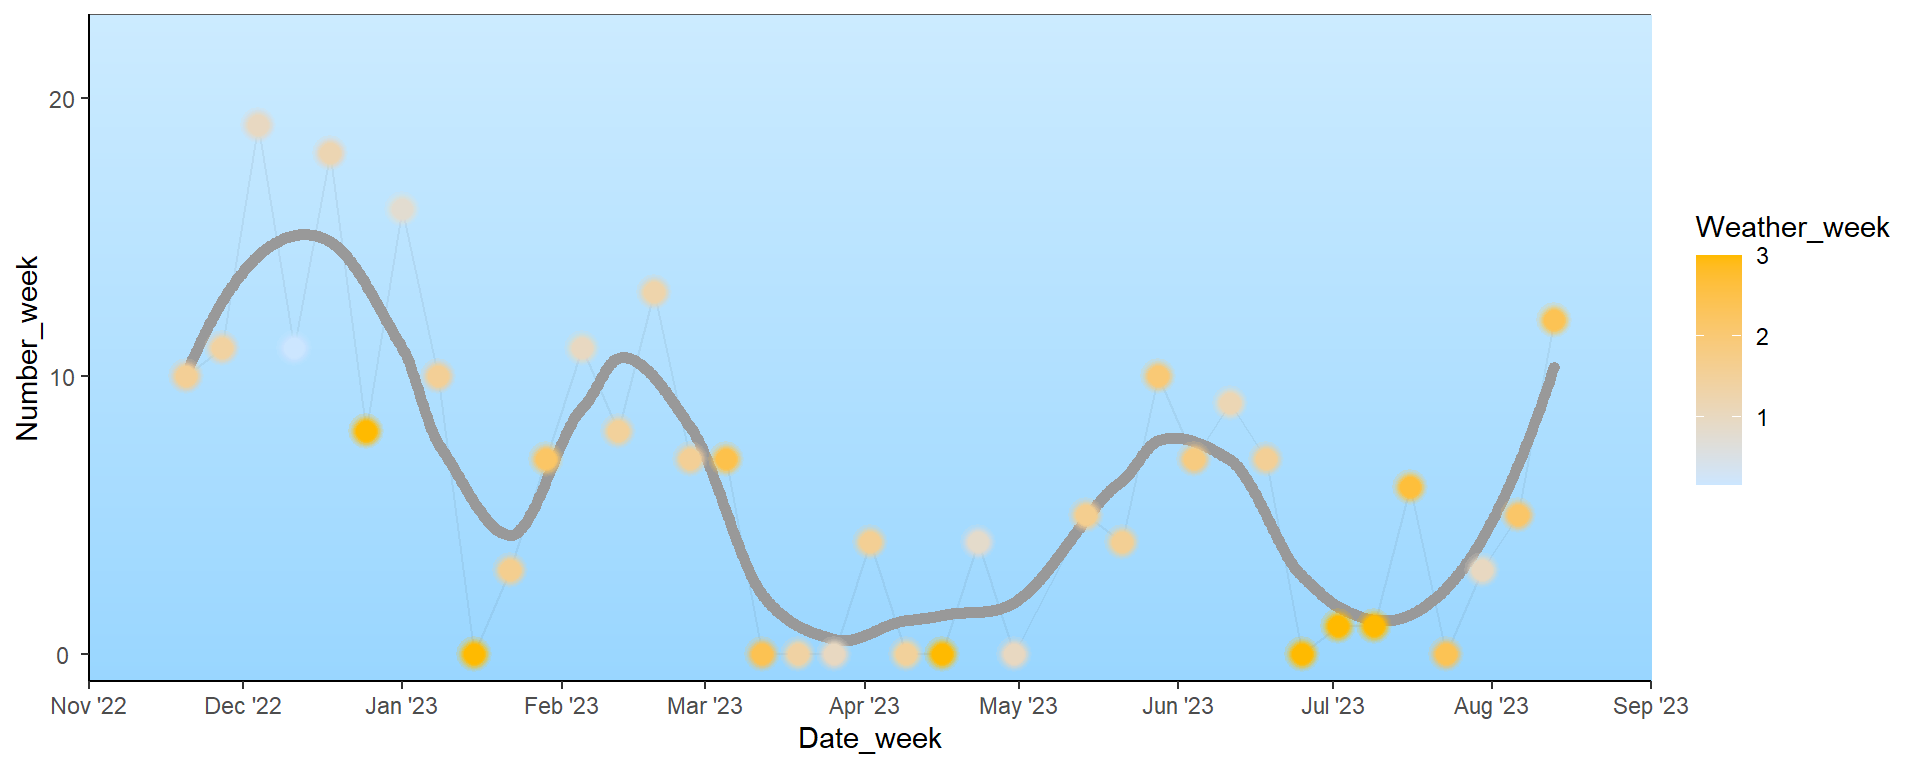
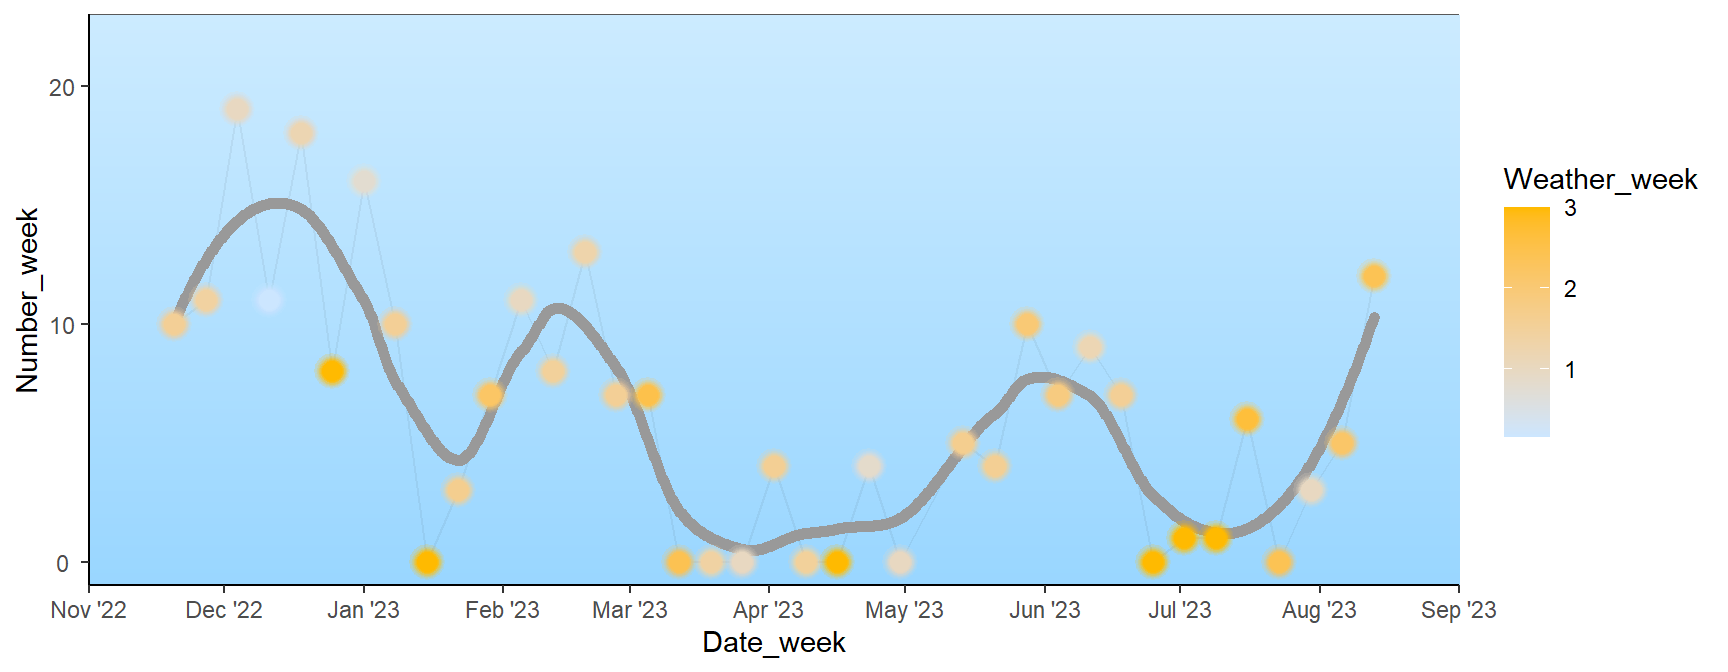
u

diff --git a/_posts/2024-02-21-post-33-a-timely-plotvisualizing-time-series-in-ggplots/post-33-a-timely-plotvisualizing-time-series-in-ggplots.html b/_posts/2024-02-21-post-33-a-timely-plotvisualizing-time-series-in-ggplots/post-33-a-timely-plotvisualizing-time-series-in-ggplots.html
@@ -118,7 +118,7 @@ code span.wa { color: #5e5e5e; font-style: italic; } /* Warning */
   <!--/radix_placeholder_rmarkdown_metadata-->
   
   <script type="text/json" id="radix-resource-manifest">
-  {"type":"character","attributes":{},"value":["Black_Kite_Records.xlsx","post-33-a-timely-plotvisualizing-time-series-in-ggplots_files/anchor-4.2.2/anchor.min.js","post-33-a-timely-plotvisualizing-time-series-in-ggplots_files/bowser-1.9.3/bowser.min.js","post-33-a-timely-plotvisualizing-time-series-in-ggplots_files/distill-2.2.21/template.v2.js","post-33-a-timely-plotvisualizing-time-series-in-ggplots_files/figure-html5/unnamed-chunk-2-1.png","post-33-a-timely-plotvisualizing-time-series-in-ggplots_files/figure-html5/unnamed-chunk-5-1.png","post-33-a-timely-plotvisualizing-time-series-in-ggplots_files/header-attrs-2.25/header-attrs.js","post-33-a-timely-plotvisualizing-time-series-in-ggplots_files/jquery-3.6.0/jquery-3.6.0.js","post-33-a-timely-plotvisualizing-time-series-in-ggplots_files/jquery-3.6.0/jquery-3.6.0.min.js","post-33-a-timely-plotvisualizing-time-series-in-ggplots_files/jquery-3.6.0/jquery-3.6.0.min.map","post-33-a-timely-plotvisualizing-time-series-in-ggplots_files/popper-2.6.0/popper.min.js","post-33-a-timely-plotvisualizing-time-series-in-ggplots_files/tippy-6.2.7/tippy-bundle.umd.min.js","post-33-a-timely-plotvisualizing-time-series-in-ggplots_files/tippy-6.2.7/tippy-light-border.css","post-33-a-timely-plotvisualizing-time-series-in-ggplots_files/tippy-6.2.7/tippy.css","post-33-a-timely-plotvisualizing-time-series-in-ggplots_files/tippy-6.2.7/tippy.umd.min.js","post-33-a-timely-plotvisualizing-time-series-in-ggplots_files/webcomponents-2.0.0/webcomponents.js"]}
+  {"type":"character","attributes":{},"value":["Black_Kite.png","Black_Kite_Records.xlsx","post-33-a-timely-plotvisualizing-time-series-in-ggplots_files/anchor-4.2.2/anchor.min.js","post-33-a-timely-plotvisualizing-time-series-in-ggplots_files/bowser-1.9.3/bowser.min.js","post-33-a-timely-plotvisualizing-time-series-in-ggplots_files/distill-2.2.21/template.v2.js","post-33-a-timely-plotvisualizing-time-series-in-ggplots_files/figure-html5/unnamed-chunk-2-1.png","post-33-a-timely-plotvisualizing-time-series-in-ggplots_files/figure-html5/unnamed-chunk-5-1.png","post-33-a-timely-plotvisualizing-time-series-in-ggplots_files/figure-html5/unnamed-chunk-6-1.png","post-33-a-timely-plotvisualizing-time-series-in-ggplots_files/header-attrs-2.25/header-attrs.js","post-33-a-timely-plotvisualizing-time-series-in-ggplots_files/jquery-3.6.0/jquery-3.6.0.js","post-33-a-timely-plotvisualizing-time-series-in-ggplots_files/jquery-3.6.0/jquery-3.6.0.min.js","post-33-a-timely-plotvisualizing-time-series-in-ggplots_files/jquery-3.6.0/jquery-3.6.0.min.map","post-33-a-timely-plotvisualizing-time-series-in-ggplots_files/popper-2.6.0/popper.min.js","post-33-a-timely-plotvisualizing-time-series-in-ggplots_files/tippy-6.2.7/tippy-bundle.umd.min.js","post-33-a-timely-plotvisualizing-time-series-in-ggplots_files/tippy-6.2.7/tippy-light-border.css","post-33-a-timely-plotvisualizing-time-series-in-ggplots_files/tippy-6.2.7/tippy.css","post-33-a-timely-plotvisualizing-time-series-in-ggplots_files/tippy-6.2.7/tippy.umd.min.js","post-33-a-timely-plotvisualizing-time-series-in-ggplots_files/webcomponents-2.0.0/webcomponents.js"]}
   </script>
   <!--radix_placeholder_navigation_in_header-->
   <!--/radix_placeholder_navigation_in_header-->
@@ -1795,7 +1795,67 @@ div.l-body img {
 <p><img src="post-33-a-timely-plotvisualizing-time-series-in-ggplots_files/figure-html5/unnamed-chunk-5-1.png" width="85%" style="display: block; margin: auto;" /></p>
 </div>
 <h3 id="polish-the-chart">(4) Polish the chart</h3>
-<p>Interpretation</p>
+<p>Let’s finish up by polishing the chart:</p>
+<ul>
+<li><p>I added a title and an image of a black kite via the HTML syntax using the function <code>geom_richtext()</code> from the package <a href="https://wilkelab.org/ggtext/"><code>ggtext</code></a>.</p></li>
+<li><p>I downloaded the font “Quintessential” from Google Fonts and used it for the numbers and text in the chart using the functions <code>font_add_google()</code> and <code>showtext_auto()</code> from the package <a href="https://cran.rstudio.com/web/packages/showtext/vignettes/introduction.html"><code>showtext</code></a>.</p></li>
+<li><p>I removed the axis titles and flipped the y-axis ticks and text to the inner side of the panel.</p></li>
+<li><p>I changed the legend position and direction, and added the labels manually.</p></li>
+</ul>
+<div class="layout-chunk" data-layout="l-body">
+<div class="sourceCode">
+<pre class="sourceCode r"><code class="sourceCode r"><span><span class='kw'><a href='https://rdrr.io/r/base/library.html'>library</a></span><span class='op'>(</span><span class='va'><a href='https://wilkelab.org/ggtext/'>ggtext</a></span><span class='op'>)</span></span>
+<span><span class='kw'><a href='https://rdrr.io/r/base/library.html'>library</a></span><span class='op'>(</span><span class='va'><a href='https://github.com/yixuan/showtext'>showtext</a></span><span class='op'>)</span></span>
+<span></span>
+<span><span class='co'>### Download and use the google font "Quintessential"</span></span>
+<span><span class='fu'><a href='https://rdrr.io/pkg/sysfonts/man/font_add_google.html'>font_add_google</a></span><span class='op'>(</span>name <span class='op'>=</span> <span class='st'>"Quintessential"</span>, family <span class='op'>=</span> <span class='st'>"Quintessential"</span><span class='op'>)</span></span>
+<span><span class='fu'><a href='https://rdrr.io/pkg/showtext/man/showtext_auto.html'>showtext_auto</a></span><span class='op'>(</span><span class='op'>)</span></span>
+<span></span>
+<span><span class='co'>### The HTML tag for the title and the black kite image</span></span>
+<span><span class='va'>title_text</span> <span class='op'>&lt;-</span> <span class='st'>"Weekly Black Kite &lt;span&gt; &lt;/span&gt; &lt;span&gt; &lt;/span&gt; Counts at Huajiang Bridge"</span></span>
+<span><span class='va'>title_image</span> <span class='op'>&lt;-</span> <span class='st'>"&lt;img src='Black_Kite.png' width='50'/&gt;"</span></span>
+<span></span>
+<span><span class='co'>### The final polished chart</span></span>
+<span><span class='va'>p_black_kite_final</span> <span class='op'>&lt;-</span> <span class='va'>p_black_kite</span> <span class='op'>+</span> </span>
+<span>  <span class='fu'><a href='https://wilkelab.org/ggtext/reference/geom_richtext.html'>geom_richtext</a></span><span class='op'>(</span>data <span class='op'>=</span> <span class='cn'>NULL</span>, <span class='fu'><a href='https://ggplot2.tidyverse.org/reference/aes.html'>aes</a></span><span class='op'>(</span>x <span class='op'>=</span> <span class='fu'><a href='https://lubridate.tidyverse.org/reference/as_date.html'>as_datetime</a></span><span class='op'>(</span><span class='st'>"2023-05-15"</span><span class='op'>)</span>, y <span class='op'>=</span> <span class='fl'>20</span>, label <span class='op'>=</span> <span class='va'>title_text</span><span class='op'>)</span>,</span>
+<span>                fill <span class='op'>=</span> <span class='cn'>NA</span>, label.color <span class='op'>=</span> <span class='cn'>NA</span>, size <span class='op'>=</span> <span class='fl'>10</span>, family <span class='op'>=</span> <span class='st'>"Quintessential"</span><span class='op'>)</span> <span class='op'>+</span> </span>
+<span>  <span class='fu'><a href='https://wilkelab.org/ggtext/reference/geom_richtext.html'>geom_richtext</a></span><span class='op'>(</span>data <span class='op'>=</span> <span class='cn'>NULL</span>, <span class='fu'><a href='https://ggplot2.tidyverse.org/reference/aes.html'>aes</a></span><span class='op'>(</span>x <span class='op'>=</span> <span class='fu'><a href='https://lubridate.tidyverse.org/reference/as_date.html'>as_datetime</a></span><span class='op'>(</span><span class='st'>"2023-05-04"</span><span class='op'>)</span>, y <span class='op'>=</span> <span class='fl'>20.4</span>, label <span class='op'>=</span> <span class='va'>title_image</span><span class='op'>)</span>,</span>
+<span>                fill <span class='op'>=</span> <span class='cn'>NA</span>, label.color <span class='op'>=</span> <span class='cn'>NA</span><span class='op'>)</span> <span class='op'>+</span></span>
+<span>  <span class='fu'><a href='https://ggplot2.tidyverse.org/reference/labs.html'>labs</a></span><span class='op'>(</span>x <span class='op'>=</span> <span class='cn'>NULL</span>, y <span class='op'>=</span> <span class='cn'>NULL</span><span class='op'>)</span> <span class='op'>+</span></span>
+<span>  <span class='fu'><a href='https://ggplot2.tidyverse.org/reference/guides.html'>guides</a></span><span class='op'>(</span>color <span class='op'>=</span> <span class='fu'><a href='https://ggplot2.tidyverse.org/reference/guide_colourbar.html'>guide_colorbar</a></span><span class='op'>(</span>ticks.colour <span class='op'>=</span> <span class='st'>"transparent"</span><span class='op'>)</span><span class='op'>)</span> <span class='op'>+</span> </span>
+<span>  <span class='fu'><a href='https://ggplot2.tidyverse.org/reference/theme.html'>theme</a></span><span class='op'>(</span><span class='co'># panel margin</span></span>
+<span>        plot.margin <span class='op'>=</span> <span class='fu'><a href='https://ggplot2.tidyverse.org/reference/element.html'>margin</a></span><span class='op'>(</span>t <span class='op'>=</span> <span class='fl'>10</span>, b <span class='op'>=</span> <span class='fl'>20</span>, l <span class='op'>=</span> <span class='fl'>35</span>, r <span class='op'>=</span> <span class='fl'>25</span><span class='op'>)</span>,</span>
+<span>        </span>
+<span>        <span class='co'># axis appearance and text</span></span>
+<span>        axis.line <span class='op'>=</span> <span class='fu'><a href='https://ggplot2.tidyverse.org/reference/element.html'>element_blank</a></span><span class='op'>(</span><span class='op'>)</span>,</span>
+<span>        axis.text.x <span class='op'>=</span> <span class='fu'><a href='https://ggplot2.tidyverse.org/reference/element.html'>element_text</a></span><span class='op'>(</span>size <span class='op'>=</span> <span class='fl'>18</span>, family <span class='op'>=</span> <span class='st'>"Quintessential"</span><span class='op'>)</span>,</span>
+<span>        axis.text.y <span class='op'>=</span> <span class='fu'><a href='https://ggplot2.tidyverse.org/reference/element.html'>element_text</a></span><span class='op'>(</span>size <span class='op'>=</span> <span class='fl'>20</span>, margin <span class='op'>=</span> <span class='fu'><a href='https://ggplot2.tidyverse.org/reference/element.html'>margin</a></span><span class='op'>(</span>r <span class='op'>=</span> <span class='op'>-</span><span class='fl'>20</span><span class='op'>)</span>, family <span class='op'>=</span> <span class='st'>"Quintessential"</span><span class='op'>)</span>,</span>
+<span>        axis.ticks.x <span class='op'>=</span> <span class='fu'><a href='https://ggplot2.tidyverse.org/reference/element.html'>element_blank</a></span><span class='op'>(</span><span class='op'>)</span>,</span>
+<span>        axis.ticks.y <span class='op'>=</span> <span class='fu'><a href='https://ggplot2.tidyverse.org/reference/element.html'>element_line</a></span><span class='op'>(</span>color <span class='op'>=</span> <span class='st'>"grey60"</span><span class='op'>)</span>,</span>
+<span>        axis.ticks.length.y <span class='op'>=</span> <span class='fu'><a href='https://rdrr.io/r/grid/unit.html'>unit</a></span><span class='op'>(</span><span class='op'>-</span><span class='fl'>0.2</span>, <span class='st'>"cm"</span><span class='op'>)</span>,</span>
+<span>        </span>
+<span>        <span class='co'># legend</span></span>
+<span>        legend.position <span class='op'>=</span> <span class='fu'><a href='https://rdrr.io/r/base/c.html'>c</a></span><span class='op'>(</span><span class='fl'>0.8</span>, <span class='fl'>0.7</span><span class='op'>)</span>,</span>
+<span>        legend.direction <span class='op'>=</span> <span class='st'>"horizontal"</span>,</span>
+<span>        legend.background <span class='op'>=</span> <span class='fu'><a href='https://ggplot2.tidyverse.org/reference/element.html'>element_blank</a></span><span class='op'>(</span><span class='op'>)</span>,</span>
+<span>        legend.title <span class='op'>=</span> <span class='fu'><a href='https://ggplot2.tidyverse.org/reference/element.html'>element_blank</a></span><span class='op'>(</span><span class='op'>)</span>,</span>
+<span>        legend.text <span class='op'>=</span> <span class='fu'><a href='https://ggplot2.tidyverse.org/reference/element.html'>element_blank</a></span><span class='op'>(</span><span class='op'>)</span></span>
+<span>        <span class='op'>)</span> <span class='op'>+</span> </span>
+<span>  <span class='fu'><a href='https://ggplot2.tidyverse.org/reference/annotate.html'>annotate</a></span><span class='op'>(</span>geom <span class='op'>=</span> <span class='st'>"text"</span>, x <span class='op'>=</span> <span class='fu'><a href='https://lubridate.tidyverse.org/reference/as_date.html'>as_datetime</a></span><span class='op'>(</span><span class='st'>"2023-06-05"</span><span class='op'>)</span>, y <span class='op'>=</span> <span class='fl'>16.2</span>, </span>
+<span>           label <span class='op'>=</span> <span class='st'>"Rainy"</span>, family <span class='op'>=</span> <span class='st'>"Quintessential"</span>, size <span class='op'>=</span> <span class='fl'>5.5</span><span class='op'>)</span> <span class='op'>+</span> </span>
+<span>  <span class='fu'><a href='https://ggplot2.tidyverse.org/reference/annotate.html'>annotate</a></span><span class='op'>(</span>geom <span class='op'>=</span> <span class='st'>"text"</span>, x <span class='op'>=</span> <span class='fu'><a href='https://lubridate.tidyverse.org/reference/as_date.html'>as_datetime</a></span><span class='op'>(</span><span class='st'>"2023-08-01"</span><span class='op'>)</span>, y <span class='op'>=</span> <span class='fl'>16.2</span>, </span>
+<span>           label <span class='op'>=</span> <span class='st'>"Sunny"</span>, family <span class='op'>=</span> <span class='st'>"Quintessential"</span>, size <span class='op'>=</span> <span class='fl'>5.5</span><span class='op'>)</span></span>
+<span></span>
+<span><span class='va'>p_black_kite_final</span></span></code></pre>
+</div>
+<p><img src="post-33-a-timely-plotvisualizing-time-series-in-ggplots_files/figure-html5/unnamed-chunk-6-1.png" width="85%" style="display: block; margin: auto;" /></p>
+</div>
+<p>We made it. Hooray!</p>
+<p>Interpretation:</p>
+<ol type="1">
+<li><p>Season is important: more in fall/winter time and fewer in spring/summer time, despite there is a peak around June/July</p></li>
+<li><p>Weather doesn’t matter that much</p></li>
+</ol>
 <h2 id="summary">Summary</h2>
 <p>Hope you learn something useful from this post and don’t forget to leave your comments and suggestions below if you have any!</p>
 <div class="sourceCode" id="cb4"><pre class="sourceCode r distill-force-highlighting-css"><code class="sourceCode r"></code></pre></div>
